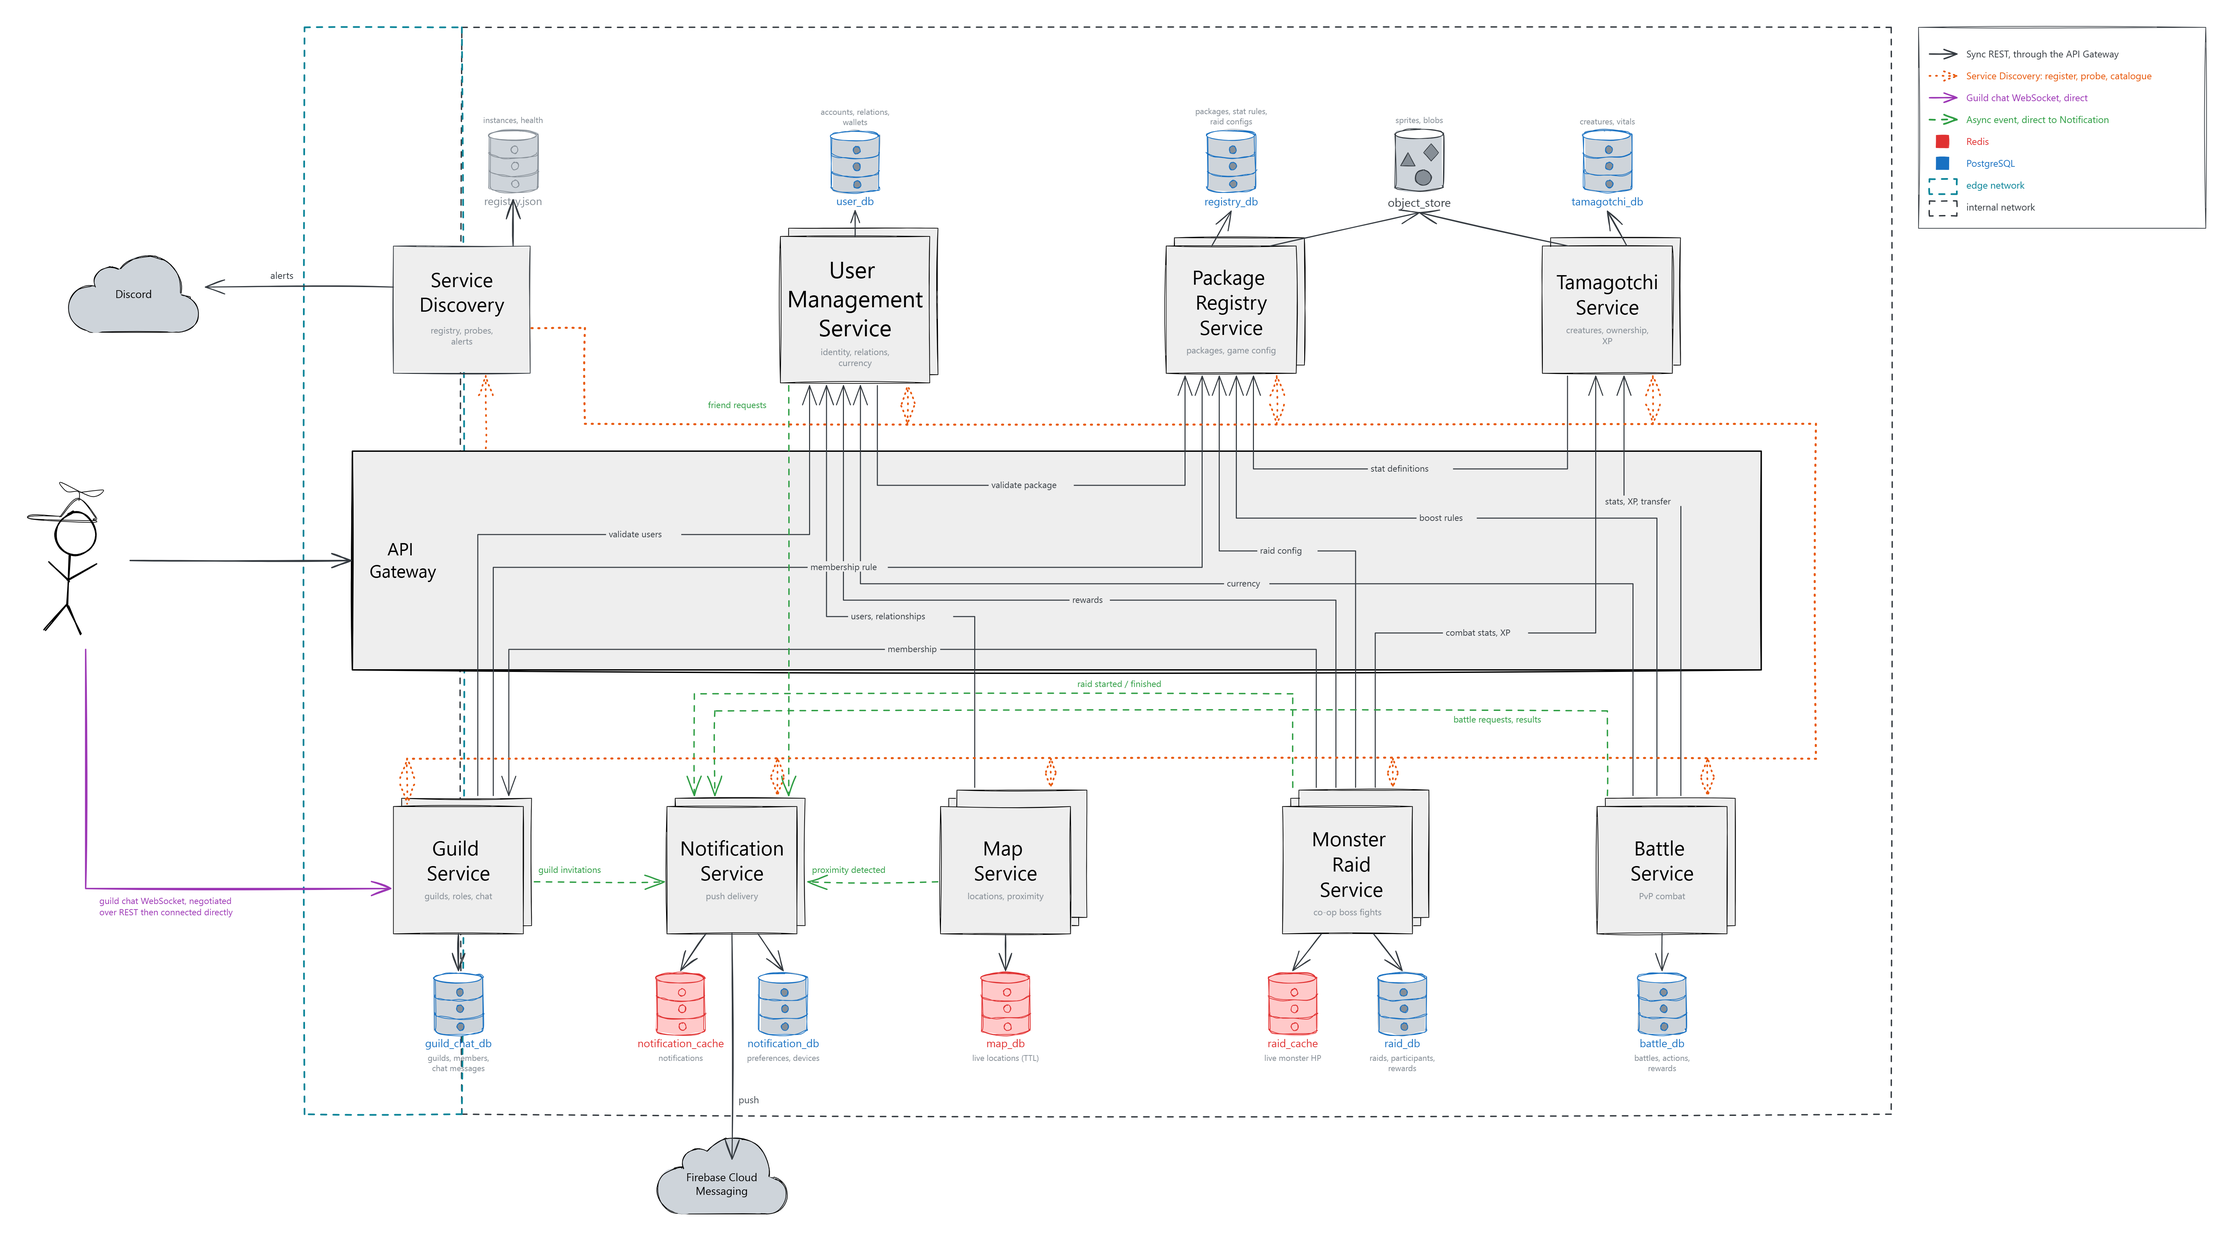
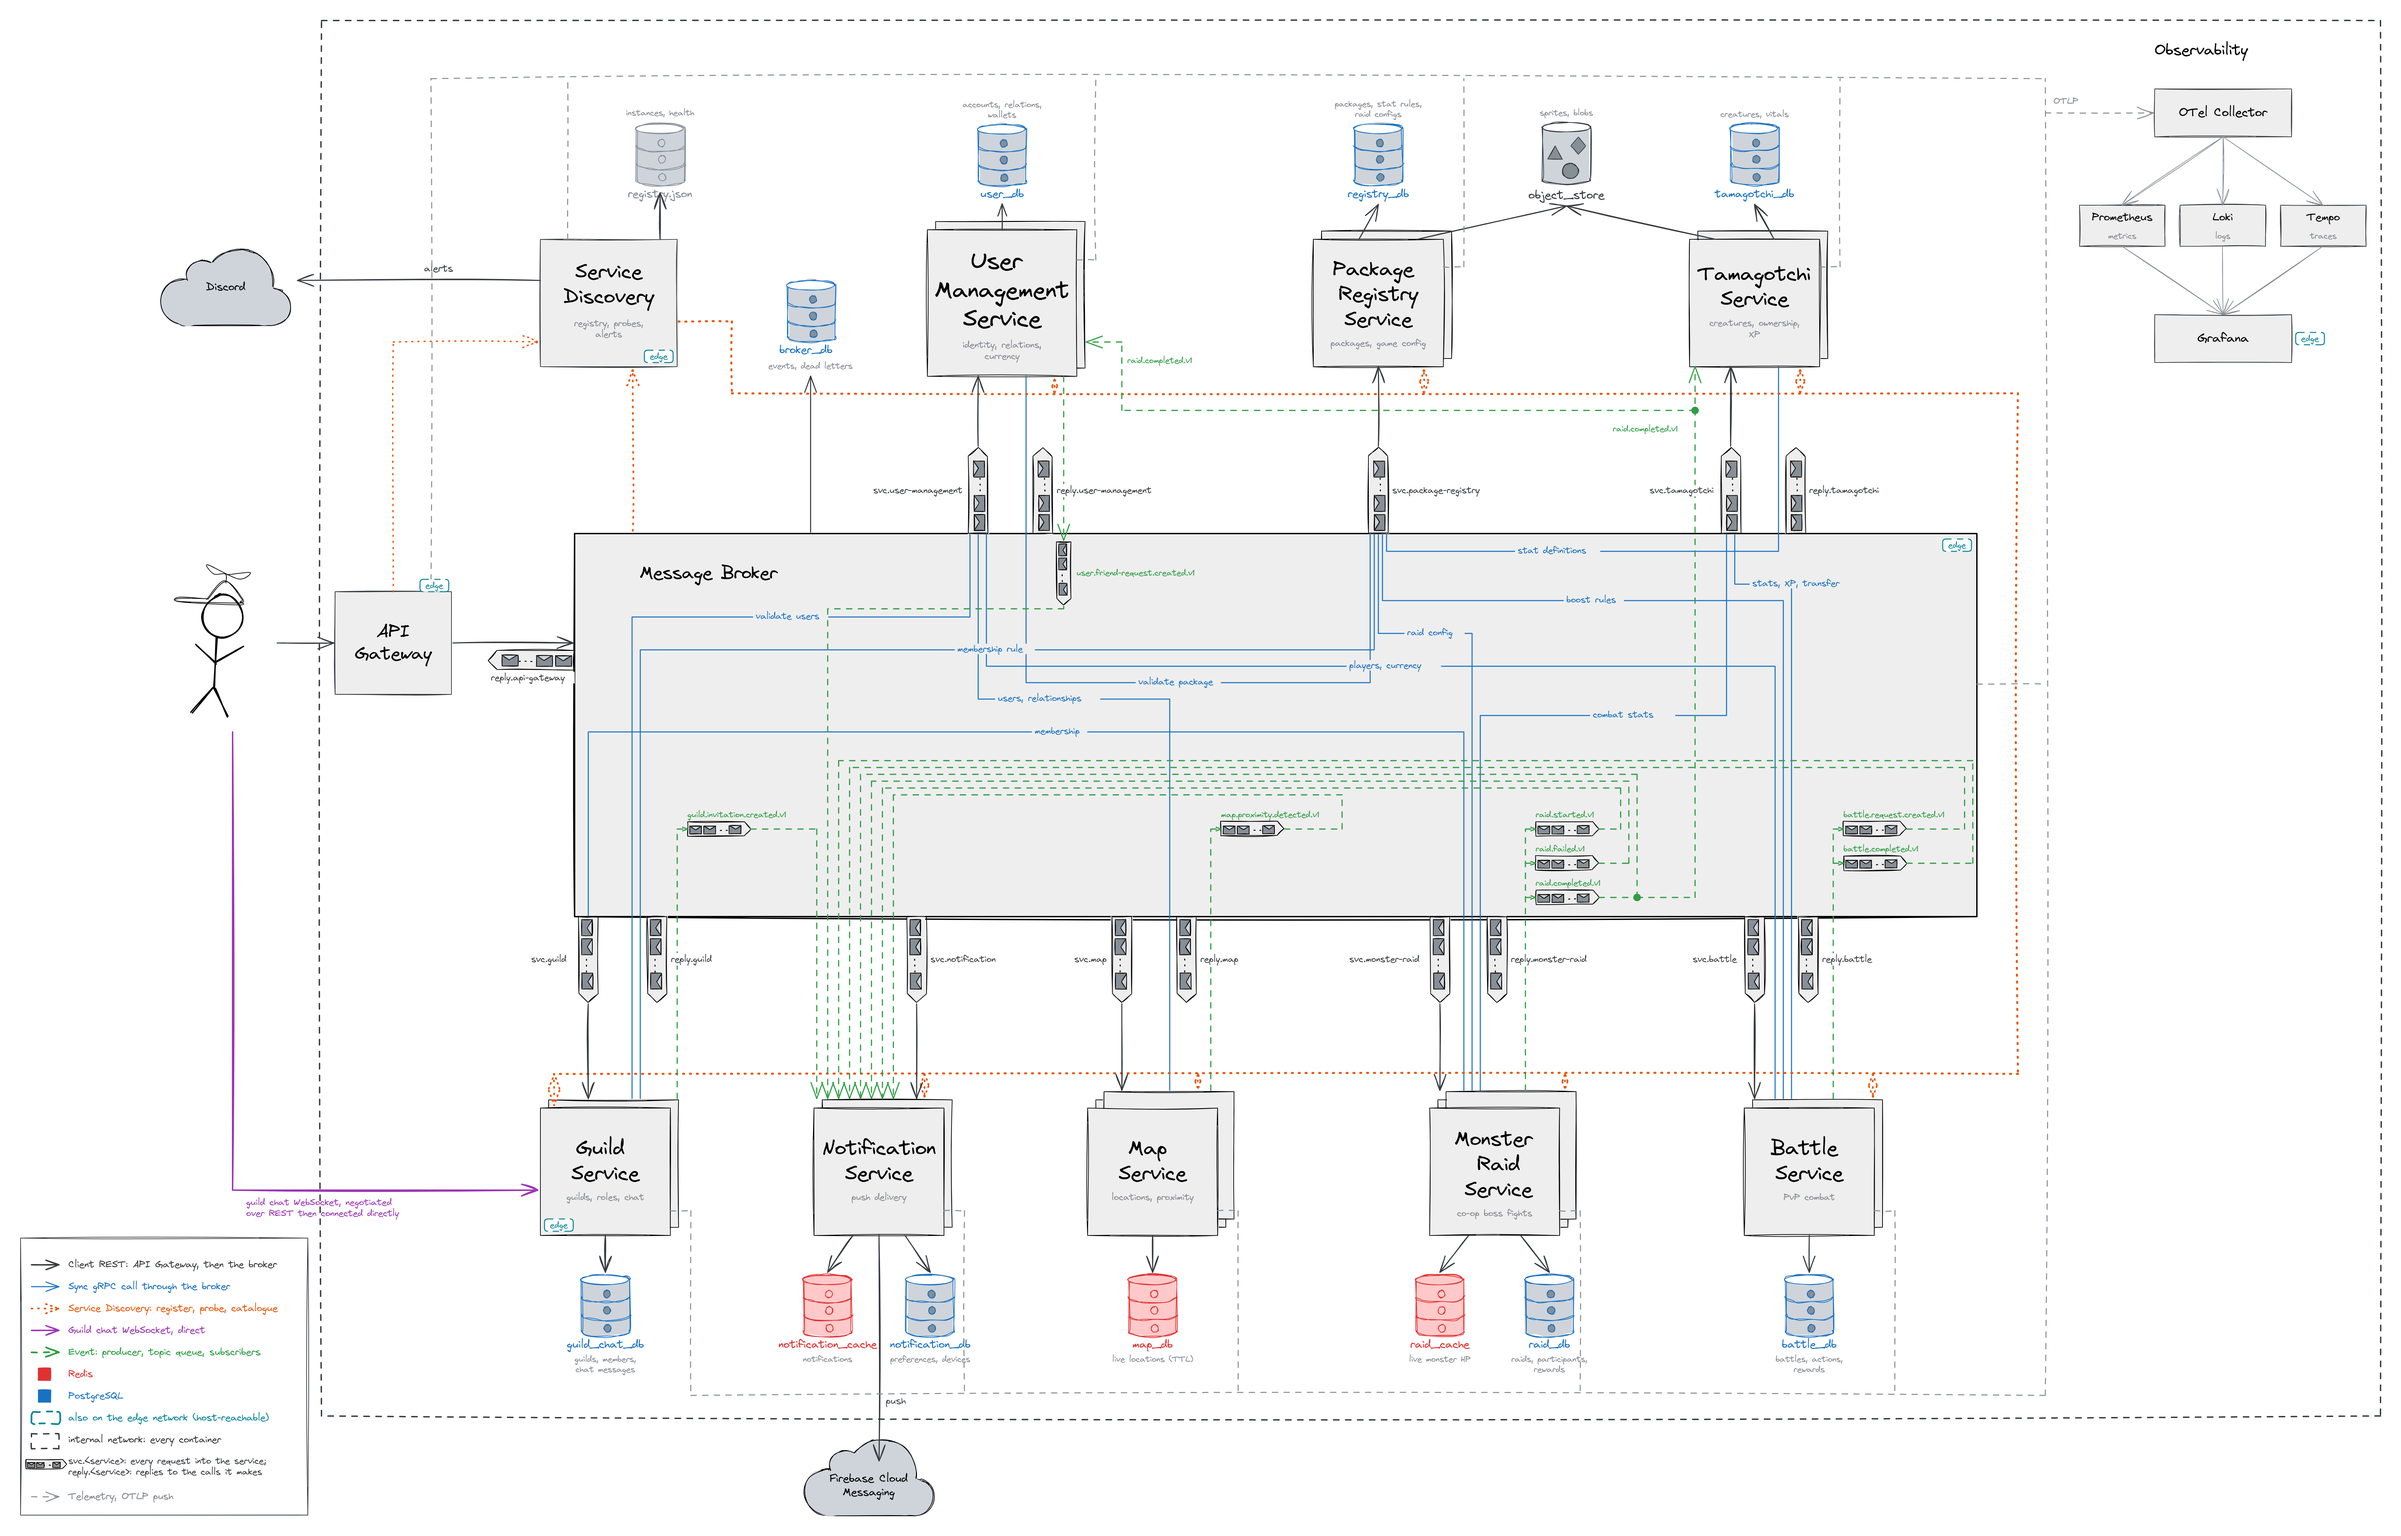
feat: update Lab 4 architecture and log export setup (#117)
* feat: prepare Lab 4 architecture and log exports

* docs: keep one Lab 4 architecture image

diff --git a/README.md b/README.md
@@ -112,11 +112,13 @@ It consumes events published by other services (notably the **User Management Se
 
 ## Architecture Diagram
 
-The API Gateway is the only way into the system. It verifies the bearer token, replaces whatever identity headers the caller sent with ones it has verified, strips the service prefix and forwards the rest. Every solid arrow in the diagram is a call that passes through it, including the service-to-service ones: those are drawn directly between services so it stays readable which service needs what, but none of them is a connection a service could open on its own. The one exception is the Guild chat WebSocket, drawn as a direct violet edge from the client, because the gateway negotiates that connection over REST and then carries none of its traffic.
+The API Gateway verifies client bearer tokens and sends allowed REST operations to the message broker. The broker queues each request, chooses a service instance, and returns its reply. Services call peers as gRPC operations through the same broker. Guild chat uses a direct WebSocket after its REST ticket negotiation.
 
-Each service owns its own database. Asynchronous events (dashed green arrows) are published to the Notification Service, which delivers push notifications via Firebase Cloud Messaging; the queue is not part of the gateway's path. Blobs, images and large JSON documents live in shared S3-compatible object storage; service databases keep only their object keys or URLs.
+Each service owns its datastore. Events are published to broker topics and persisted in per-subscriber queues in `broker-db`. For example, `raid.completed.v1` reaches Notification, User Management and Tamagotchi independently. Failed deliveries enter the dead letter channel. Service Discovery handles registration, probes and health, and the broker reads its catalogue. The collector sends telemetry to Prometheus, Loki and Jaeger, with Grafana providing dashboards.
 
 ![Architecture Diagram](docs/architecture.png)
+
+The diagram shows the Lab 4 target. Compose currently uses Jaeger for traces; object storage is tracked in #66. The remaining service rollout and end-to-end checks are tracked in #96, #97 and #102.
 
 [Back to top](#table-of-contents)
 
@@ -2286,6 +2288,8 @@ The message broker is deployed, and the gateway hands every client request to it
 - **Notification** calls no other service. Firebase is mocked. It receives its events by subscribing to their topics on the broker; it has no internal event endpoint any more.
 
 ### Postman Collections
+
+The [gateway administrator collection](collections/gateway-admin.postman_collection.json) contains `GET /admin/logs`. After gateway #25 is released and pinned, set `ADMIN_USER_IDS` in the local `.env` to your administrator's UMS UUID and restart the gateway. Put that user's bearer token in the collection's private local `adminAccessToken` value. The request defaults to the last hour and checks the NDJSON download headers and body. Use Save Response in Postman to keep the file. The collector preserves each original JSON line in `originalLog` metadata. Downloads of historical logs without that field use reconstructed records.
 
 Import the JSON files from [`collections`](collections). Their `gatewayUrl` defaults to `http://localhost:8000`. Set existing UMS account emails and passwords locally and run the login requests first; the scripts store access tokens and user IDs for later requests. On a clean stack, run the User Management collection's `1. Setup and Authentication`, followed by `1b. Package Bootstrap`: register without a package, log in, create a package, activate it as its developer, and join it. These steps use only API calls; no database inserts or administrator identity are needed. Registration can still select an existing ACTIVE package with `initialPackageId`.
 
